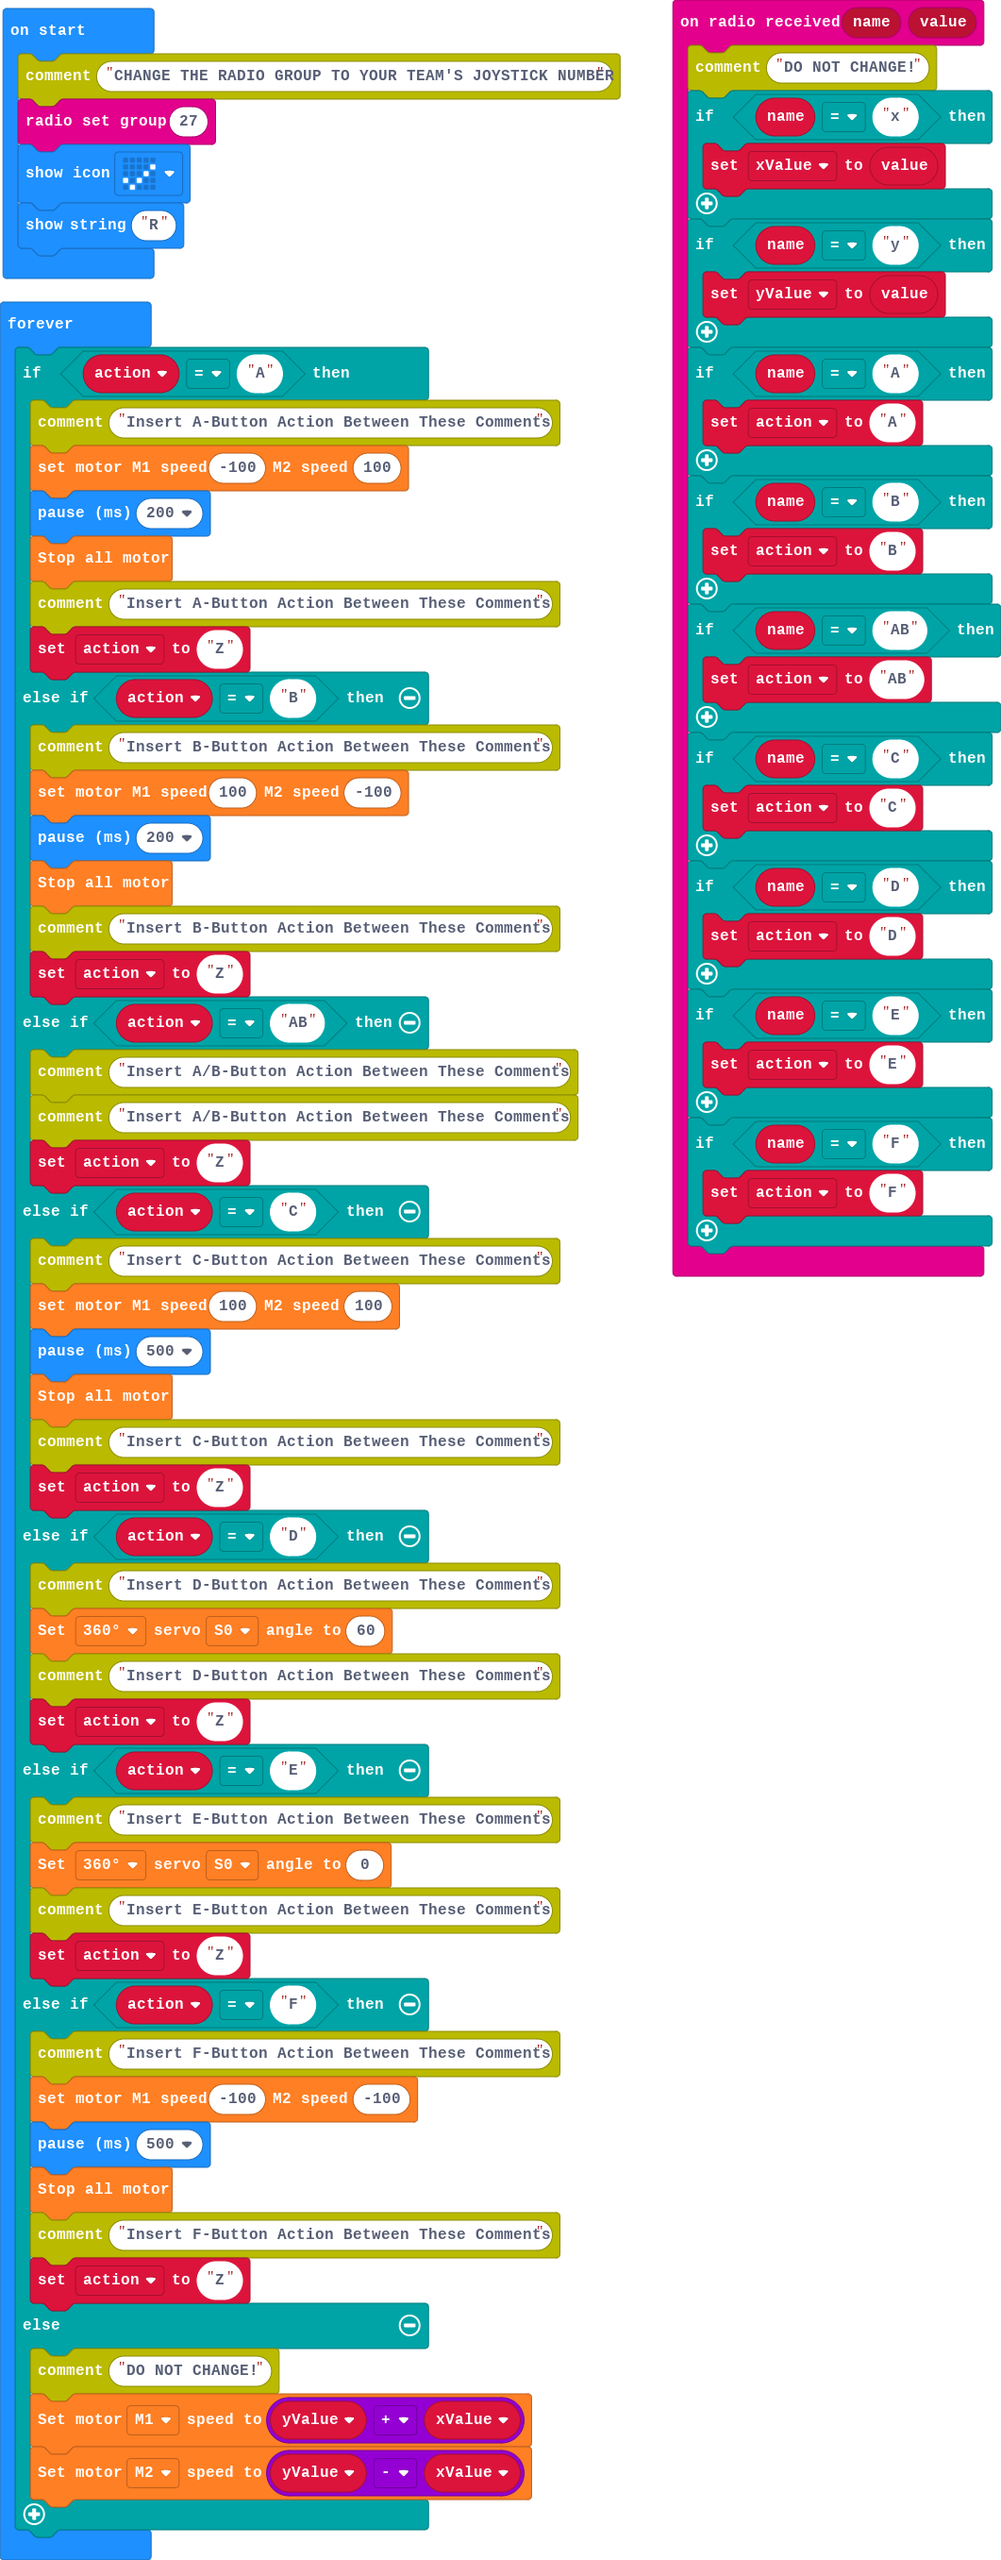
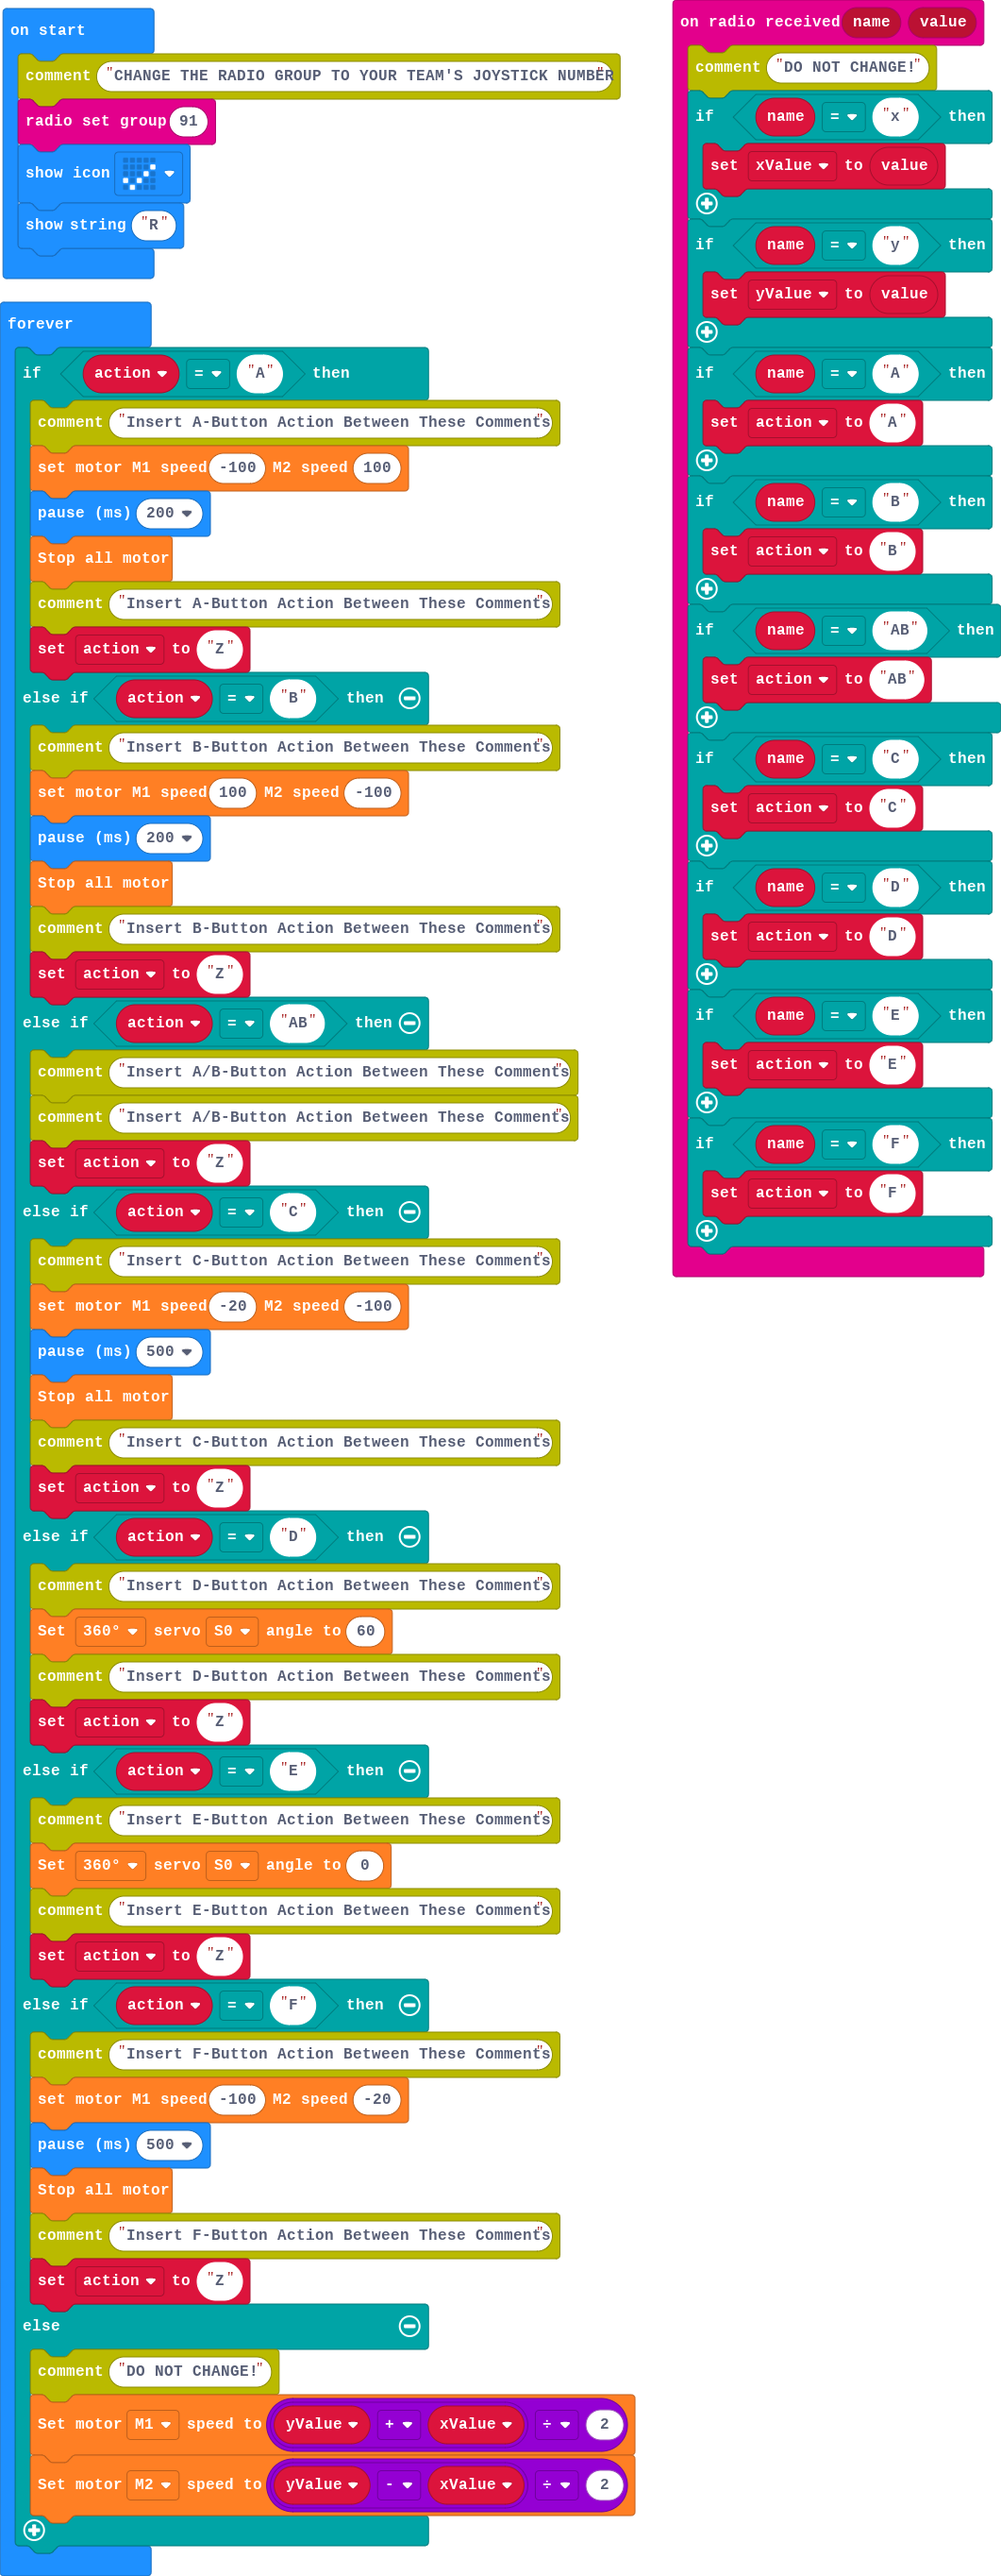
Update main.blocks, main.ts

Changed region(s): [[0.0311, 0.031, 0.6532, 0.9912], [0.6843, 0.031, 1.0, 0.5265]]

diff --git a/main.ts b/main.ts
@@ -32,7 +32,7 @@ let action = ""
 let yValue = 0
 let xValue = 0
 comment.comment("CHANGE THE RADIO GROUP TO YOUR TEAM'S JOYSTICK NUMBER")
-radio.setGroup(27)
+radio.setGroup(91)
 basic.showIcon(IconNames.Yes)
 basic.showString("R")
 basic.forever(function () {
@@ -56,7 +56,7 @@ basic.forever(function () {
         action = "Z"
     } else if (action == "C") {
         comment.comment("Insert C-Button Action Between These Comments")
-        wuKong.setAllMotor(100, 100)
+        wuKong.setAllMotor(-20, -100)
         basic.pause(500)
         wuKong.stopAllMotor()
         comment.comment("Insert C-Button Action Between These Comments")
@@ -73,14 +73,14 @@ basic.forever(function () {
         action = "Z"
     } else if (action == "F") {
         comment.comment("Insert F-Button Action Between These Comments")
-        wuKong.setAllMotor(-100, -100)
+        wuKong.setAllMotor(-100, -20)
         basic.pause(500)
         wuKong.stopAllMotor()
         comment.comment("Insert F-Button Action Between These Comments")
         action = "Z"
     } else {
         comment.comment("DO NOT CHANGE!")
-        wuKong.setMotorSpeed(wuKong.MotorList.M1, yValue + xValue)
-        wuKong.setMotorSpeed(wuKong.MotorList.M2, yValue - xValue)
+        wuKong.setMotorSpeed(wuKong.MotorList.M1, (yValue + xValue) / 2)
+        wuKong.setMotorSpeed(wuKong.MotorList.M2, (yValue - xValue) / 2)
     }
 })
